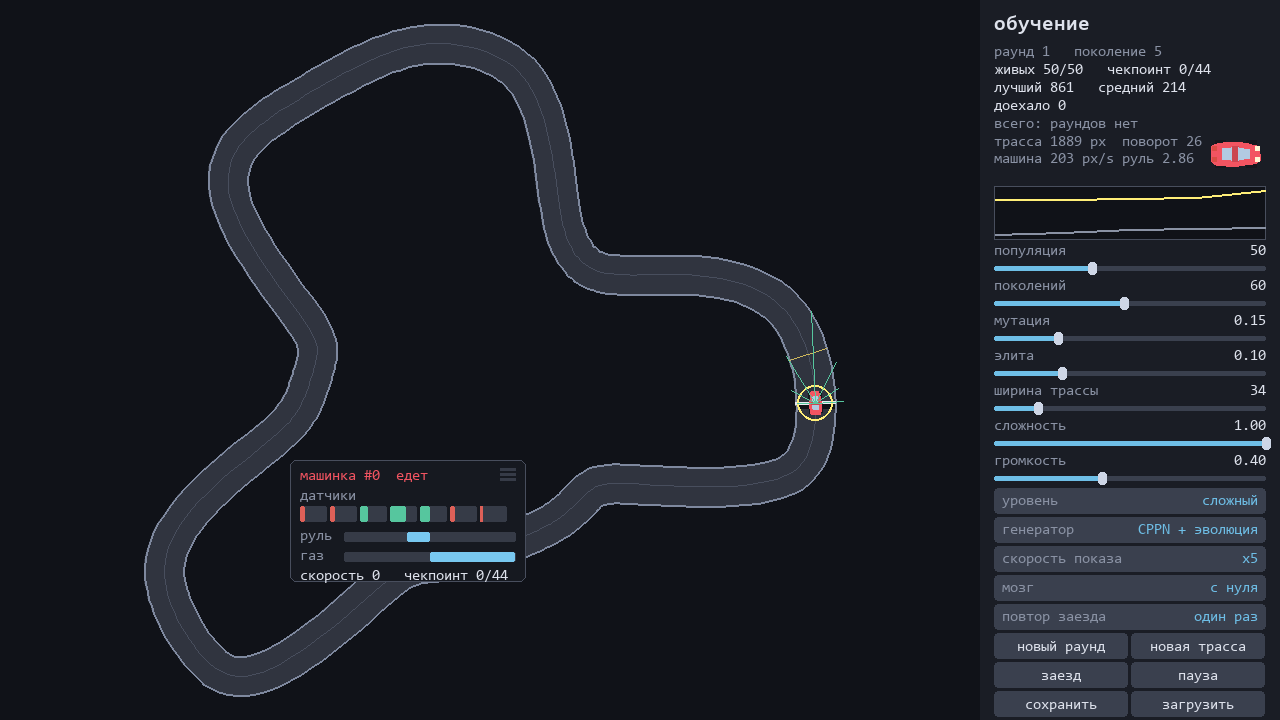
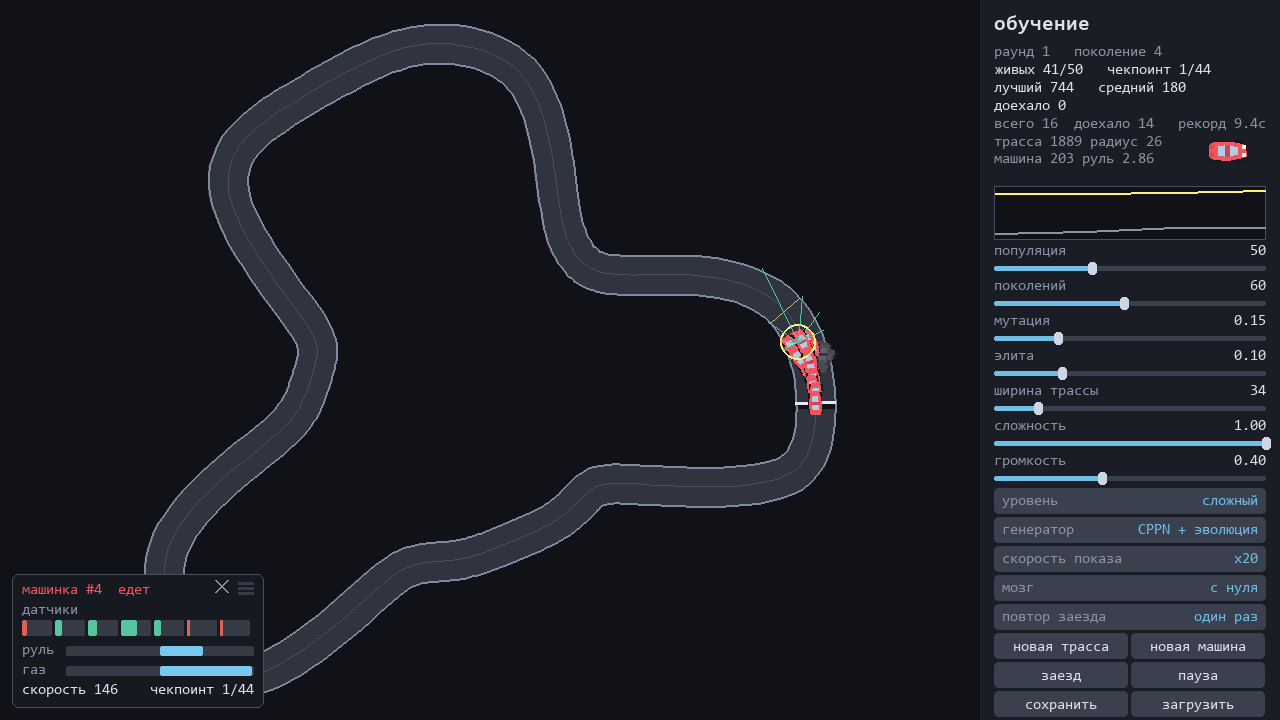
Кадры для README собирает программа: игра без окна, момент ищется по состоянию гонки

diff --git a/tools/make_previews.py b/tools/make_previews.py
@@ -1,0 +1,75 @@
+"""Кадры игры для README: собираются программой, а не руками.
+
+    python tools\\make_previews.py
+
+Игра запускается без окна - тем же способом, что и её собственная самопроверка:
+SDL с драйвером dummy рисует в обычную поверхность в памяти. Кадр берётся прямо с
+неё, через pygame.image.save.
+
+Снимок экрана тут не годится дважды. Окно может оказаться позади других, и в кадр
+попадёт чужое содержимое. А главное - нужный момент руками не поймать: обучение
+идёт поколениями, и кадр «половина популяции уже разбилась в одном повороте»
+живёт доли секунды. Скрипт вместо этого прокручивает ровно столько кадров,
+сколько нужно, с постоянным зерном - и картинка повторяется от прогона к прогону.
+"""
+
+import os
+import sys
+from pathlib import Path
+
+ROOT = Path(__file__).resolve().parent.parent
+OUT = ROOT / "docs"
+sys.path.insert(0, str(ROOT))
+
+# До импорта pygame: иначе он уже создаст настоящее окно.
+os.environ.setdefault("SDL_VIDEODRIVER", "dummy")
+os.environ.setdefault("SDL_AUDIODRIVER", "dummy")
+
+import pygame  # noqa: E402
+
+import render  # noqa: E402
+from main import DONE, Game  # noqa: E402
+
+SEED = 7
+# Докуда крутить. Первый кадр - середина обучения: нужен момент, когда часть
+# популяции ещё едет, а часть уже лежит серыми - по их скоплению и видно, в каком
+# повороте гибнет поколение. Второй - конец: победитель на финише и вся сводка.
+MID_GENERATION = 4
+LIMIT = 4000
+
+
+def кадр(game, name):
+    game.screen.fill(render.BG)
+    game.draw_field()
+    game.draw_panel()
+    path = OUT / name
+    pygame.image.save(game.screen, str(path))
+    print(f"  {name} ({path.stat().st_size // 1024} КБ)")
+
+
+def main() -> None:
+    OUT.mkdir(parents=True, exist_ok=True)
+    game = Game(seed=SEED)
+    game.ui.widgets["speed"].index = 2   # без отрисовки каждого кадра - быстрее прокрутка
+
+    снято = False
+    for n in range(LIMIT):
+        game.advance()
+        # Момент для первого кадра ищется по состоянию гонки, а не по номеру
+        # кадра: на другой трассе то же число кадров пришлось бы на другое место.
+        if (not снято and len(game.history) >= MID_GENERATION
+                and 5 <= game.race.n_alive < game.race.n):
+            кадр(game, "preview_game.png")
+            снято = True
+        if game.state == DONE:
+            break
+    print(f"прокручено кадров: {n + 1}, поколений {len(game.history)}, состояние {game.state}")
+    if not снято:
+        кадр(game, "preview_game.png")
+    кадр(game, "preview_showcase.png")
+    pygame.quit()
+    print(f"Готово: {OUT}")
+
+
+if __name__ == "__main__":
+    main()
